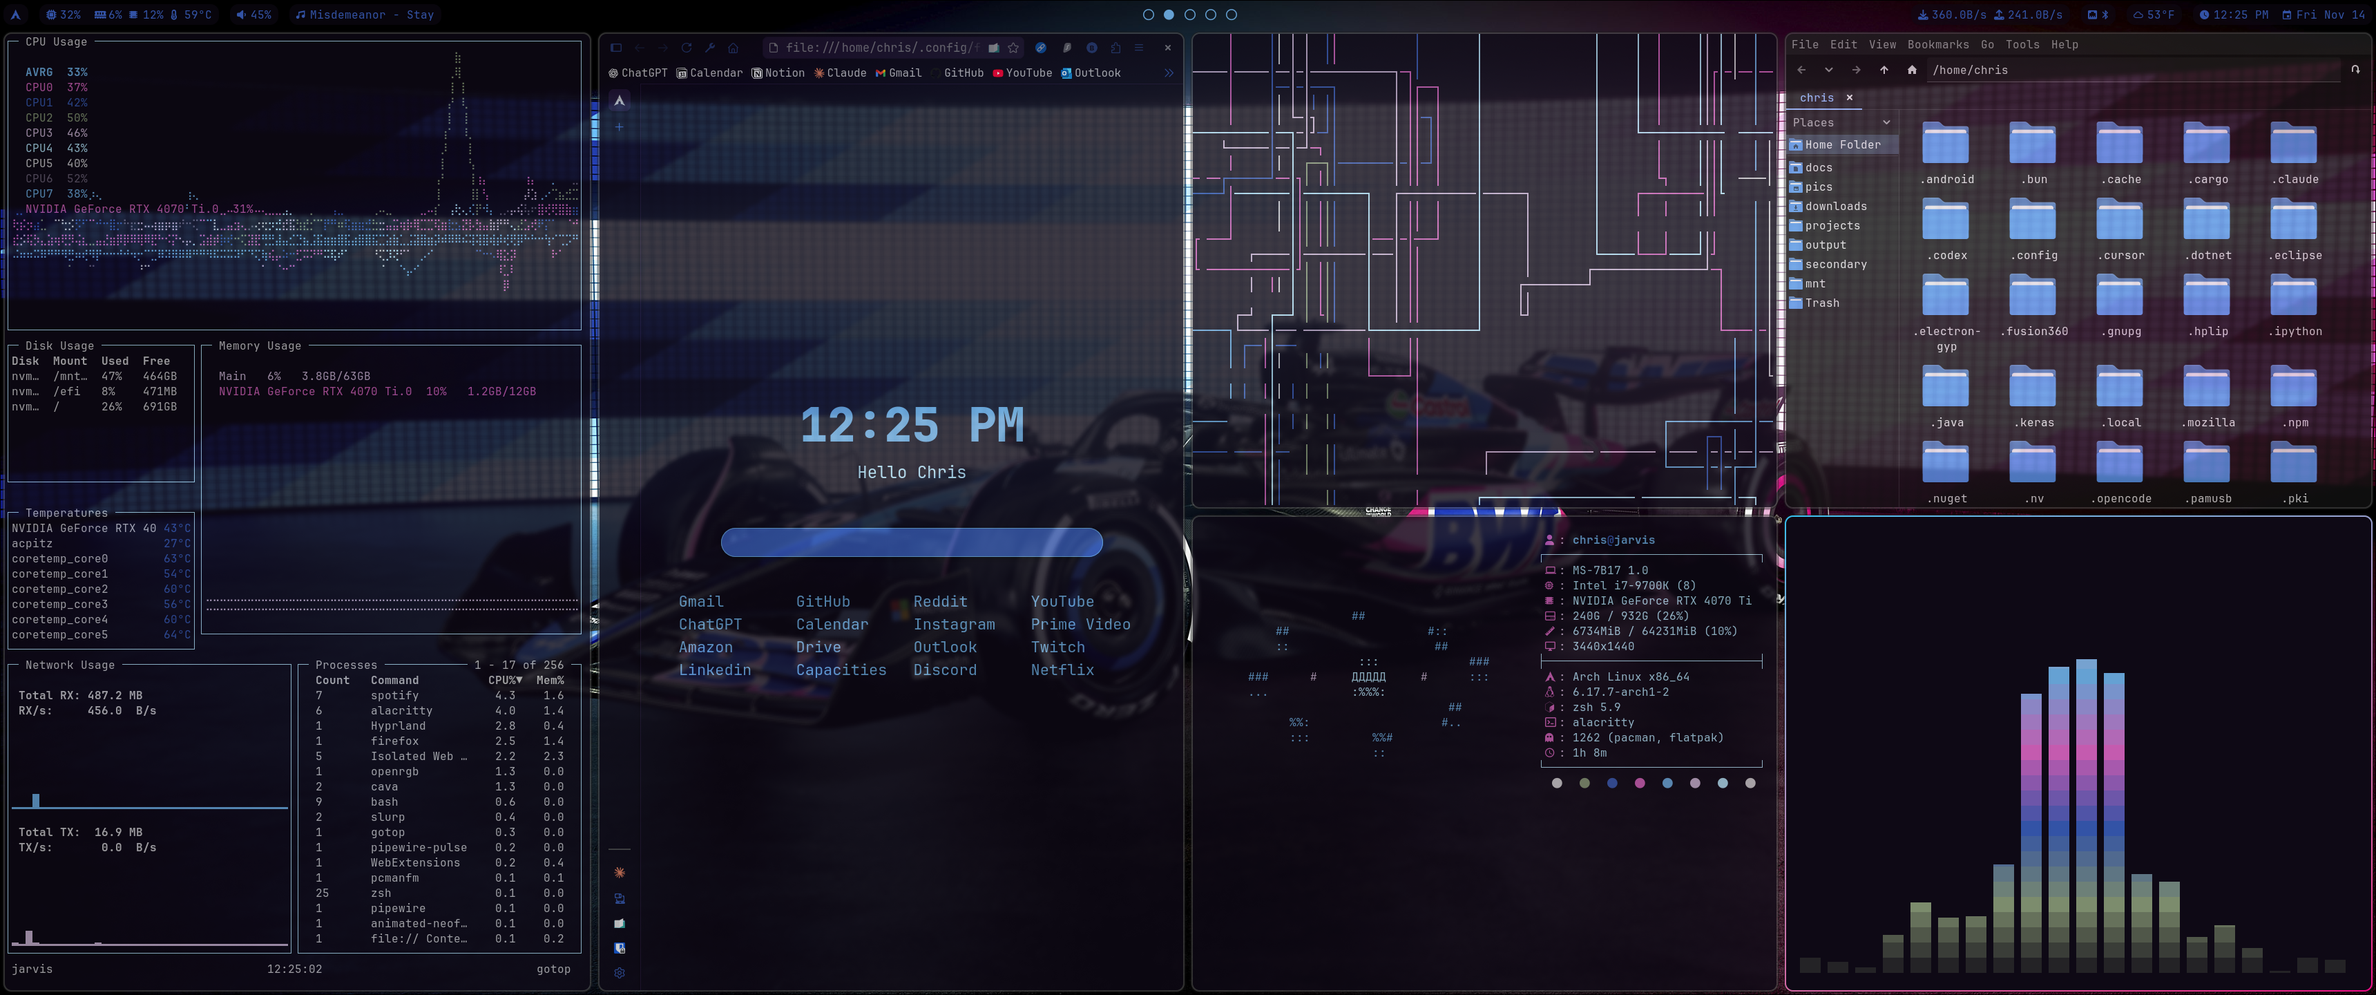
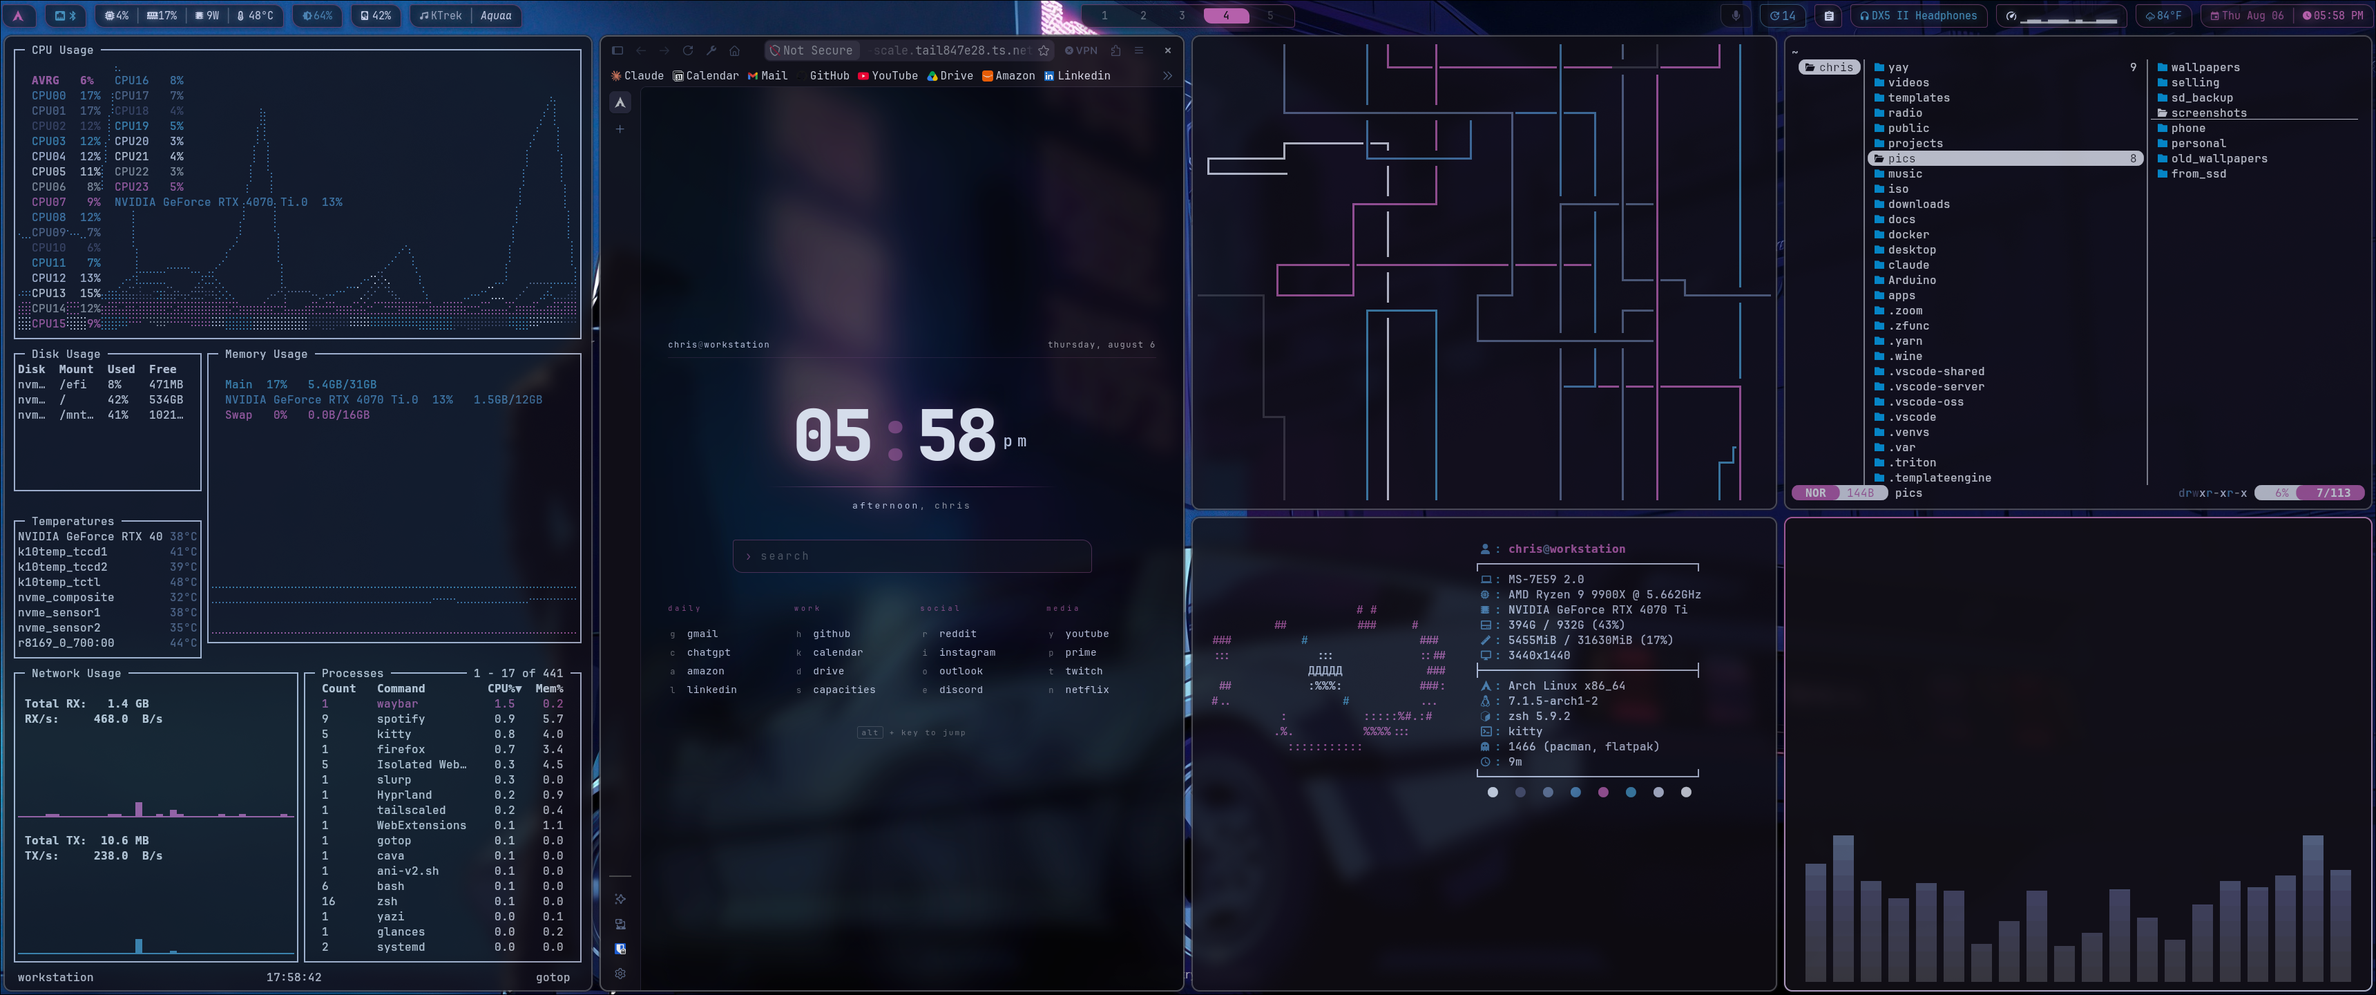
Rework README as a showcase, not a tutorial; rewrite CLAUDE.md
README.md: collapsed the ~80-line Installation section (prerequisites
table, numbered setup steps, manual-steps list) to a short note that
this isn't a general install guide — no two systems agree on
partitioning/drivers/DE closely enough for that to be responsible
advice. Added a Keeping machines in sync section documenting
dotfiles-sync and the two things that genuinely never sync
(hyprland-local.conf, secrets). Fixed several stale sections: the
Layouts keybind table still listed the old SUPER+G/H/B mnemonic binds
that were reassigned to window groups/pin/scratchpad; the Network
interface note said the sparkline was pinned to a NIC name, which
auto-detects now; Key Features described a GPU-only hardware pill and
a clipboard/updates/notification waybar that no longer matches either
machine's actual config. Repository Structure tree now notes
config-laptop.jsonc, Kvantum/, and that the tree is illustrative (the
real deploy list comes from git ls-files, not a hand-kept README copy).

CLAUDE.md was an unfilled generic template (ended with 'Copy this file
to project root and customize') duplicating the global CLAUDE.md's
model-routing guidance with zero project content. Replaced with the
patterns that have actually broken this repo before: gitignored
generated files, BMP PUA glyph stripping, hardcoded-machine-value bugs
and their auto-detect fix pattern, hyprland-local.conf's load order,
and the secrets-in-tracked-files mistake.
[…]

diff --git a/README.md b/README.md
@@ -6,7 +6,9 @@
 
 ## <samp>About</samp>
 
-Personal dotfiles for an Arch Linux setup: a Hyprland desktop that re-themes itself from whatever wallpaper is on screen. Cyberpunk-leaning, ultrawide-first (3440x1440).
+Personal dotfiles for an Arch Linux desktop: Hyprland that re-themes itself from whatever wallpaper is on screen. Cyberpunk-leaning, built around a 3440x1440 ultrawide. This is what I actually run — a showcase of the setup, not a tutorial for building your own. Everyone's hardware, drivers and partition layout differ enough that a copy-paste install script would be irresponsible advice; see [Installation](#installation) for what that means in practice here.
+
+Synced to one other machine — a laptop — via `dotfiles-sync`, so the desktop stays the source of truth and the laptop follows.
 
 | | |
 |---|---|
@@ -70,92 +72,35 @@ PewDiePie's animated ASCII frames, recoloured to the live palette, with `fastfet
 
 - **Dynamic theming** — one dispatcher (`~/.local/bin/wal-hypr.sh`) runs wallust and propagates the palette to waybar, kitty, rofi, hyprlock, mako, cava, yazi, nvim, Firefox, GTK 2/3/4 and Qt/Kvantum
 - **Wallpaper picker** — `Super + W` opens a rofi thumbnail grid over `~/pics/wallpapers`; drop a file in the folder and it appears, no config
-- **Custom waybar** — CPU/RAM/GPU/temps, disk, a live network sparkline, weather, clipboard, update count and notification state
+- **Custom waybar, hardware-aware** — CPU/RAM/temp plus GPU power draw or battery percentage, whichever the machine actually has (auto-detected, not hardcoded); disk, a live network sparkline (interface auto-detected too) and weather. The desktop and laptop run two different module layouts from the same repo — see `config.jsonc` vs `config-laptop.jsonc`
 - **Single-instance lock** — `Super + L` goes through a `flock` wrapper so a double-press cannot spawn two lock clients (see [Security notes](#security))
 - **Glyph verifier** — `waybar/scripts/verify-glyphs.py` fails the build if a Nerd Font icon has been stripped or has decayed to ASCII
 - **Split config** — `hypr/conf.d/` is numbered and topic-scoped rather than one long file
-- **Machine-local overrides** — `hyprland-local.conf` and `~/.config/shell/secrets.env` keep per-machine and secret values out of the repo
+- **Machine-local overrides** — `hyprland-local.conf` (now actually sourced — see its own comment in `hyprland.conf`) and `~/.config/shell/secrets.env` keep per-machine and secret values out of the repo
+- **One-command sync** — `dotfiles-sync` pulls, redeploys every tracked config, and installs anything a pull newly depends on; see [Keeping machines in sync](#sync)
 
 <a name="installation"/>
 
 ## <samp>Installation</samp>
 
-### Prerequisites
+This isn't written as a general install guide. No two systems agree on partitioning, drivers or desktop-environment assumptions closely enough for a copy-paste script to be responsible advice, and that's not what this repo is for — it's a record of one specific desktop, not a distro.
 
-- A fresh **Arch** or **EndeavourOS** install (no desktop environment needed)
-- Internet connection
-- A non-root user with `sudo`
+`install.sh` exists to keep this repo's one other machine — a laptop — in line with this one. See [Keeping machines in sync](#sync) for how that actually works day to day. If you're curious what a fresh run does, the script is meant to be read, not just executed — every step is commented with why it exists, not just what it does.
 
-### One-command install
+<a name="sync"/>
 
-```sh
-bash <(curl -s https://raw.githubusercontent.com/boernerc20/dotfiles-arch/main/install.sh)
-```
-
-Or clone first:
+## <samp>Keeping machines in sync</samp>
 
 ```sh
-git clone https://github.com/boernerc20/dotfiles-arch.git ~/projects/dotfiles-arch
-bash ~/projects/dotfiles-arch/install.sh
+dotfiles-sync
 ```
 
-> Do **not** run as root. The script uses `sudo` internally where needed.
+Pulls the latest commit, redeploys every tracked `.config/` entry, and installs anything a new commit newly depends on (`install.sh` is idempotent — re-running it never touches `secrets.env`, `weather.env`, `hyprland-local.conf` or `.zshrc.local`, and every package install is `--needed`). The desktop is the source of truth; the laptop pulls, it never pushes configuration back.
 
-### What the install script does
+Two things stay genuinely per-machine and are never synced:
 
-| Step | What happens |
-|------|-------------|
-| Network check | Verifies internet is available |
-| System update | `pacman -Syu` |
-| yay | Installs the AUR helper if not present |
-| Packages | Installs everything (pacman + AUR) |
-| Services | Enables NetworkManager, bluetooth, and the display manager |
-| Shell | Sets `zsh` as the default shell |
-| Dotfiles | Deploys all configs |
-| hyprland-local.conf | Creates the machine-local monitor/GPU override file |
-| Secrets | Creates `secrets.env` and `weather.env`, both empty and `0600` |
-| Initial palette | Runs `wal-hypr.sh` against the first wallpaper it finds, or tells you what to run if there are none |
-| Pywalfox | Installs the Firefox native connector |
-
-Re-running it is safe: existing `secrets.env`, `weather.env`, `hyprland-local.conf` and `.zshrc.local` are left untouched.
-
-### After the install
-
-**1. Add wallpapers.** They are **not** bundled — they are large and personal. Put some in `~/pics/wallpapers/`, then:
-
-```sh
-~/.local/bin/wal-hypr.sh ~/pics/wallpapers/your-image.png
-```
-
-From then on `Super + W` handles it. If you install with an empty wallpaper folder the script says so and skips the palette pass rather than failing.
-
-**2. Set your monitor.**
-
-```sh
-hyprctl monitors                              # find the name
-nvim ~/.config/hypr/hyprland-local.conf       # e.g. monitor=DP-3, 3440x1440@120, 0x0, 1
-```
-
-**3. Add your secrets.** The install script creates both files empty and `0600`; you just fill them in.
-
-```sh
-nvim ~/.config/shell/secrets.env     # OPENWEATHER_API_KEY, and anything else private
-nvim ~/.config/waybar/weather.env    # the SAME OpenWeatherMap key
-```
-
-**Never put a key in `.zshrc`** — that file is tracked, and doing exactly that is how two live credentials sat in this public repo for four months.
-
-> Two files, one key. waybar is launched by Hyprland rather than from a login shell, so it never sees the shell's environment and needs its own copy. Rotating means editing **both**.
-
-> A freshly generated OpenWeatherMap key returns `401 Invalid API key` for up to a couple of hours before it activates. That is normal — the weather module shows its alert glyph until then.
-
-**4. Reboot**, log in, and select Hyprland.
-
-### Manual steps
-
-**Pywalfox** — open Firefox once, then `pywalfox install`, and add the [browser extension](https://addons.mozilla.org/en-US/firefox/addon/pywalfox/).
-
-**NVIDIA** — uncomment the relevant block in `~/.config/hypr/hyprland-local.conf` and install `nvidia-dkms nvidia-utils`.
+- **`hyprland-local.conf`** — monitor, touchpad, GPU env, machine-only autostart. Generated once by `install.sh`, gitignored, and sourced last so it overrides everything else — see the comment above its `source` line in `hyprland.conf`.
+- **Secrets** — `~/.config/shell/secrets.env` and `~/.config/waybar/weather.env` both carry the same OpenWeatherMap key; waybar is launched by Hyprland rather than a login shell, so it never sees the shell's environment and needs its own copy. Rotating the key means editing **both**, on **every** machine. Never put a key in `.zshrc` — that file is tracked, and doing exactly that is how two live credentials sat in this public repo for four months.
 
 <h2></h2>
 
@@ -204,16 +149,35 @@ nvim ~/.config/waybar/weather.env    # the SAME OpenWeatherMap key
 
 ### Layouts
 
+`Super + Alt` is the only layout-preset prefix — every preset in one place, nothing to remember across two modifiers.
+
 | Action | Bind |
 |--------|------|
 | Master / dwindle | `Super + O` / `Super + Shift + O` |
-| Thirds (3 columns) | `Super + G` |
-| Half (50/50) | `Super + H` |
-| Big + sidebar (66/33) | `Super + B` |
-| Reset sizes | `Super + Shift + =` |
+| Full width (1 column) | `Super + Alt + 1` |
+| Half (50/50) | `Super + Alt + 2` |
+| Thirds (3 columns) | `Super + Alt + 3` |
+| Quarters (4 columns) | `Super + Alt + 4` |
+| 66/33, main on left | `Super + Alt + E` |
+| 33/66, main on right | `Super + Alt + R` |
+| 25/50/25, focus centred | `Super + Alt + C` |
+| Golden ratio (62/38) | `Super + Alt + G` |
+| Reset to equal sizes | `Super + Alt + 0` |
 | Add / remove master | `Super + [` / `Super + ]` |
 | Swap with master | `Super + \` |
 | Cycle master position | `Super + I` |
+
+### Windows
+
+| Action | Bind |
+|--------|------|
+| Toggle scratchpad | `Super + B` |
+| Send window to scratchpad | `Super + Shift + B` |
+| Toggle window group (tabs) | `Super + G` |
+| Cycle group tabs | `Super + Shift + G` |
+| Pin window (floating only) | `Super + H` |
+| Dismiss top notification | `Super + Shift + =` |
+| Dismiss all notifications | `Super + Shift + -` |
 
 ### Screenshots
 
@@ -248,9 +212,14 @@ The shared plate in `style-base.css` owns padding, border, tracking and shadow. 
 
 Run `scripts/verify-glyphs.py` after touching any icon. It fails on stripped glyphs, missing font coverage, and icons that have decayed into ASCII.
 
-### Network interface
+### Machine-specific hardware
 
-The sparkline module in `config.jsonc` is pinned to an interface name — update it for your machine.
+Two things auto-detect at runtime rather than being hardcoded, so the same script runs correctly on both machines with no per-machine fork:
+
+- **`hardware.sh`**'s fourth field — GPU power draw if `nvidia-smi` exists, battery percentage if `/sys/class/power_supply/BAT0` exists, nothing if neither does
+- **`net-sparkline.py`** — reads the default-route interface out of `/proc/net/route` (`net-sparkline.py auto` in `config.jsonc`) rather than a hardcoded NIC name
+
+**`~/.local/bin/brightness`** picks the right control path the same way: `brightnessctl` if `/sys/class/backlight` has an entry (a real laptop panel), DDC/CI over `~/.local/bin/monitor-brightness` if not (an external monitor with its own scaler — see that script's header for why a naive version is unusable: bus caching, a non-blocking lock, ~330ms per write).
 
 <h2></h2>
 
@@ -276,28 +245,32 @@ That file is owned by the hyprlock package and is in its pacman backup array, so
 dotfiles-arch/
 ├── .config/
 │   ├── hypr/
-│   │   ├── conf.d/         # numbered, topic-scoped config
-│   │   └── hyprlock.conf   # generated from the wallust template
+│   │   ├── conf.d/              # numbered, topic-scoped config
+│   │   └── hyprlock.conf        # generated from the wallust template
 │   ├── waybar/
-│   │   ├── config.jsonc
-│   │   ├── style-base.css  # style.css is built at runtime, gitignored
-│   │   └── scripts/        # incl. verify-glyphs.py
+│   │   ├── config.jsonc         # desktop layout
+│   │   ├── config-laptop.jsonc  # laptop layout — install.sh picks one by chassis
+│   │   ├── style-base.css       # shared; style.css is built at runtime, gitignored
+│   │   └── scripts/             # incl. verify-glyphs.py, hardware.sh, net-sparkline.py
 │   ├── wallust/
-│   │   ├── wallust.toml    # 12 templates -> ~/.cache/wal/
+│   │   ├── wallust.toml         # 14 templates -> ~/.cache/wal/
 │   │   └── templates/
-│   ├── wal/postrun         # palette post-processing (GTK/Qt/Kvantum)
-│   ├── shell/              # secrets.env.example
+│   ├── wal/postrun              # palette post-processing (GTK/Qt/Kvantum)
+│   ├── Kvantum/                 # LayanDark theme, patched per-palette by postrun
+│   ├── shell/                   # secrets.env.example
 │   ├── kitty/  rofi/  mako/  yazi/  nvim/  btop/  cava/
-│   ├── neofetch/           # animated ASCII frames + recolour script
+│   ├── neofetch/                # animated ASCII frames + recolour script
 │   └── wlogout/  gtk-{2,3,4}.0/  qt6ct/
-├── .local/bin/             # wal-hypr.sh, lock, wallpaper-picker, ...
-├── assets/                 # README screenshots
-├── .zshrc_copy             # deployed as ~/.zshrc
+├── .local/bin/                  # wal-hypr.sh, lock, brightness, wallpaper-picker, ...
+├── assets/                      # README screenshots
+├── .zshrc_copy                  # deployed as ~/.zshrc
 ├── .p10k.zsh
 └── install.sh
 ```
 
-> `wallpapers/` is **not** tracked — see [After the install](#installation).
+Everything under `.config/` that `install.sh` deploys is enumerated straight from `git ls-files` at run time — not a hand-kept list — so this tree is illustrative, not exhaustive; run `git ls-files .config/` for the real current set.
+
+> `wallpapers/` is **not** tracked — large and personal. `install.sh` degrades gracefully with none present; drop some in `~/pics/wallpapers/` and `Super + W` picks them up.
 
 <h2></h2>
 

diff --git a/CLAUDE.md b/CLAUDE.md
@@ -1,72 +1,61 @@
-# Project-Specific Claude Optimization
+# CLAUDE.md
 
-## Model Strategy for This Project
+Guidance for Claude Code working in this repo. See `README.md` first for what
+this project actually is; this file is about not re-breaking things that were
+already fixed once.
 
-Default agent model preferences:
-- Exploration/Research: **haiku**
-- Implementation: **sonnet**
-- Complex reasoning: **opus** (use sparingly)
+## What this repo is
 
-## Project-Specific Rules
+Personal Hyprland dotfiles, tracked across two machines (a desktop and a
+laptop) via `dotfiles-sync` (`git pull` + `install.sh`, idempotent). The
+desktop is the source of truth; the laptop only ever pulls.
 
-### Agent Team Configuration
+## Rules that exist because something broke before
 
-For this project's workflows, optimize as follows:
+- **Never hand-edit `~/.config/waybar/style.css`, `~/.cache/wal/*`, or
+  `~/.config/rofi/colors-rofi.rasi`.** All three are rebuilt from a template
+  every time `~/.local/bin/wal-hypr.sh` runs and are gitignored. Edit the
+  *template* — `.config/waybar/style-base.css`, `.config/wallust/templates/`
+  — never the rendered output.
+- **Nerd Font icons: use nf-md codepoints (U+F0000+), not BMP PUA (U+E000–F8FF)
+  where an nf-md equivalent exists.** BMP PUA glyphs have been silently
+  stripped to empty strings in this repo before (`config.jsonc` shipped with
+  `"format-icons": ["", "", ""]` at one point). Where no nf-md equivalent
+  exists (distro logos, weather icons) BMP PUA is unavoidable and just a
+  `note` from the checker, not an `error`. After touching any icon in
+  `.config/waybar/`, run:
+  ```sh
+  python3 .config/waybar/scripts/verify-glyphs.py
+  ```
+  It checks both `config.jsonc` and `config-laptop.jsonc`, fails on empty
+  icon strings, and fails on BMP PUA use in either config file specifically.
+- **Never hardcode a machine-specific value in a *shared* (tracked) file.**
+  This has broken things at least three times: `hardware.sh`'s GPU-only
+  fourth field, `net-sparkline.py`'s NIC name, and `01-monitors.conf`
+  carrying the desktop's exact monitor line. The fix pattern is always
+  auto-detection at runtime (`command -v nvidia-smi`, `/proc/net/route`,
+  `hostnamectl chassis`) — never a second hardcoded value for the other
+  machine. If a value truly cannot be detected, it belongs in
+  `hyprland-local.conf`, not a tracked file.
+- **`hyprland-local.conf` must be sourced *last*** in `hyprland.conf` (monitor,
+  touchpad, GPU env, machine-only autostart) so it overrides the shared
+  `conf.d/` files rather than being overridden by them. This was missing
+  entirely for a long time — the file was generated by `install.sh` on every
+  machine but never actually loaded.
+- **A secret goes in `~/.config/shell/secrets.env` or
+  `~/.config/waybar/weather.env`, never in `.zshrc_copy` or any tracked
+  file.** Two live API keys sat in this public repo for four months from
+  exactly that mistake. If you ever see a real-looking key, token, or
+  password in a diff you're about to commit, stop and ask.
 
-```
-# Research phase - always use Haiku
-Task(subagent_type="Explore", model="haiku", prompt="...")
+## Before committing
 
-# Implementation - use Sonnet (or Haiku for simple tasks)
-Task(subagent_type="general-purpose", model="sonnet", prompt="...")
-
-# Critical decisions only - Opus
-Task(subagent_type="Plan", model="opus", prompt="...")
-```
-
-### Message Conservation
-
-1. Batch file operations - read multiple files in parallel
-2. Use direct Grep/Glob instead of agents for known patterns
-3. Combine related tasks in single requests
-
-### Token Conservation
-
-1. Read files with offset/limit when possible
-2. Use grep with head_limit to avoid huge outputs
-3. Avoid reading build artifacts / dependencies
-
-## Project File Patterns to Avoid
-
-Add patterns for files that shouldn't be read unnecessarily:
-- `node_modules/**`
-- `build/**`
-- `dist/**`
-- `*.min.js`
-- `package-lock.json` (unless specifically needed)
-
-## Cost-Aware Workflow
-
-For typical tasks in this project:
-
-**Feature Development:**
-1. Haiku: Research existing patterns
-2. Direct tools: Read specific files
-3. Sonnet: Implement changes
-4. Direct tools: Verify changes
-
-**Bug Investigation:**
-1. Haiku: Search for related code
-2. Direct tools: Read relevant files
-3. Sonnet: Analyze and fix (or Opus if critical)
-4. Direct tools: Test fix
-
-**Refactoring:**
-1. Direct Grep: Find all occurrences
-2. Haiku: Understand scope of changes
-3. Sonnet: Implement refactoring
-4. Direct tools: Verify consistency
-
----
-
-*Copy this file to project root and customize for project-specific needs*
+- Run `.config/waybar/scripts/verify-glyphs.py` if any waybar file changed.
+- If `install.sh` changed, run `bash -n install.sh` — it's long enough that a
+  quoting mistake can hide past a casual read.
+- Check `git status` for drift beyond what you intended to touch. This repo
+  has repeatedly accumulated real, uncommitted local changes for months at a
+  time (hypridle re-enable, DDC/CI brightness, RGB sleep hook all sat
+  uncommitted on the desktop; a March-dated diff sat uncommitted on the
+  laptop for five months) — if you're in here for one fix, it's worth a
+  glance at whether something else nearby is also dangling.
